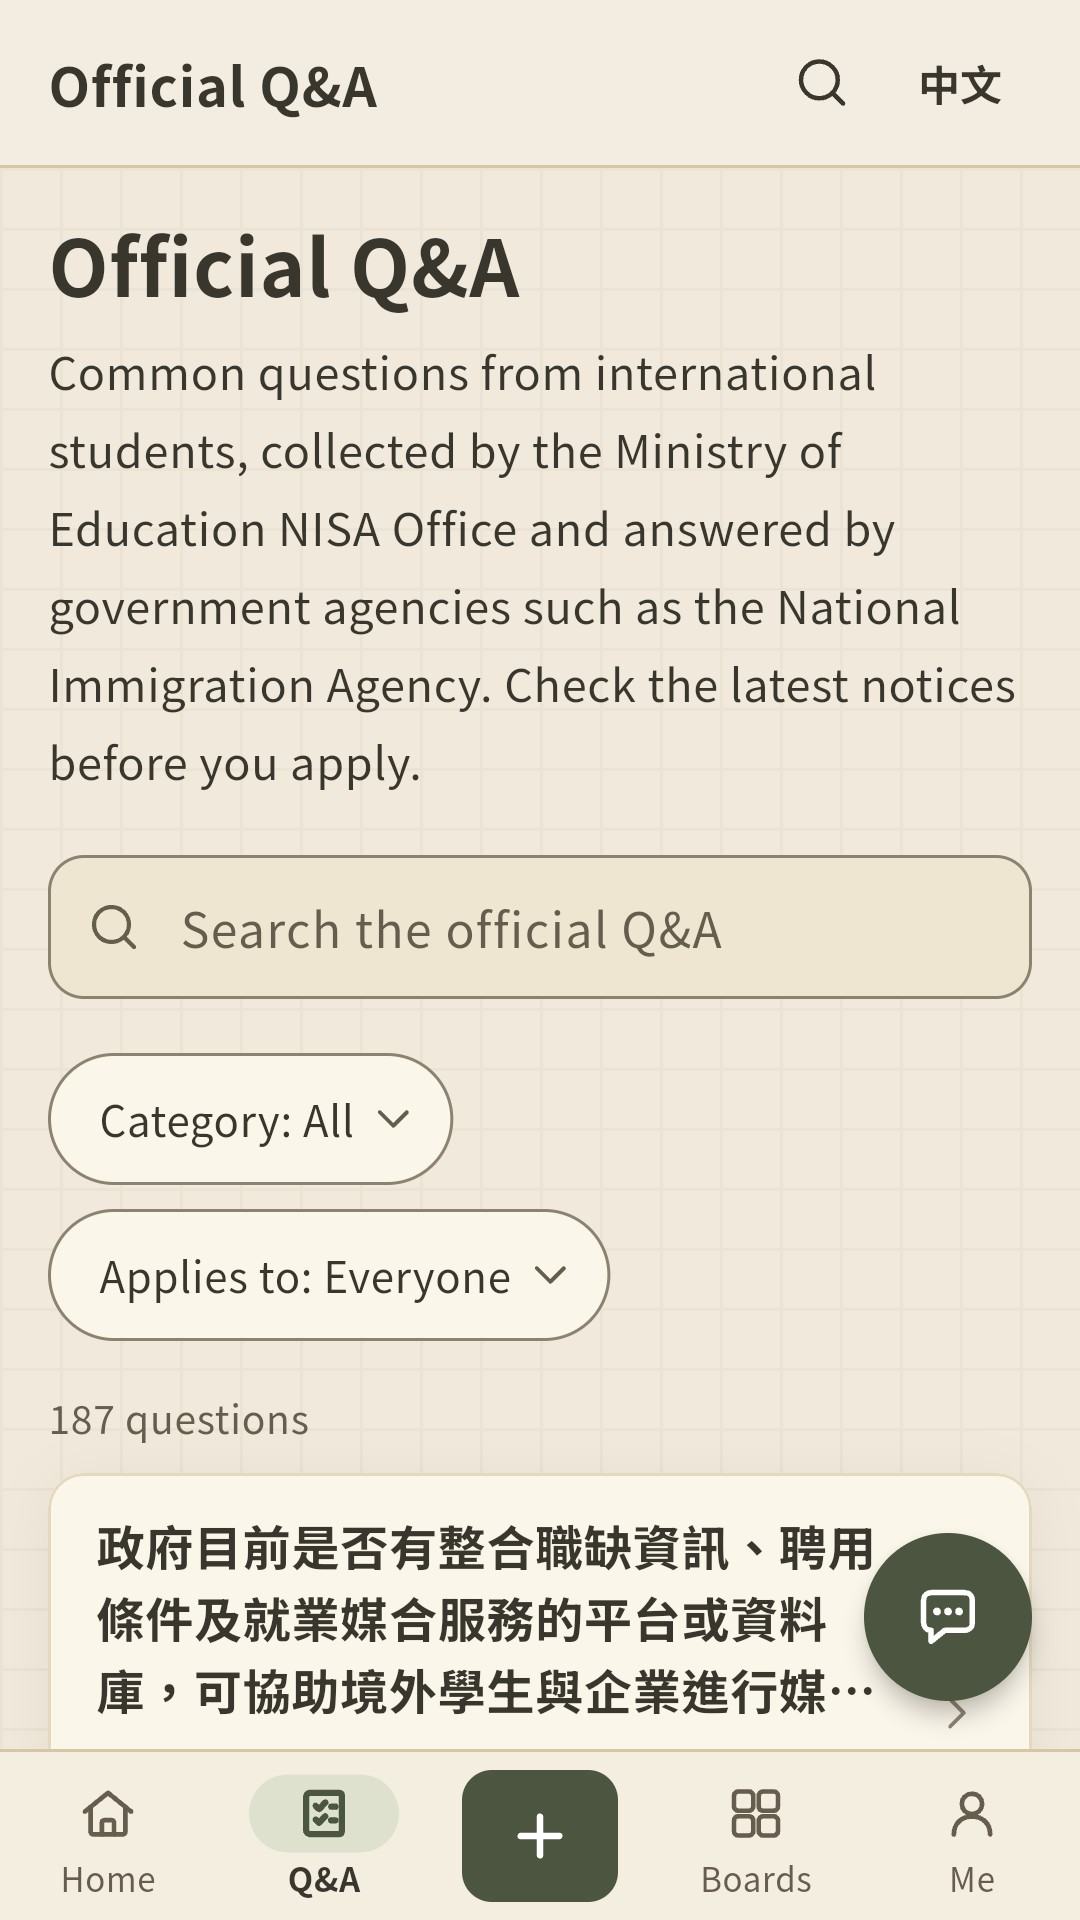
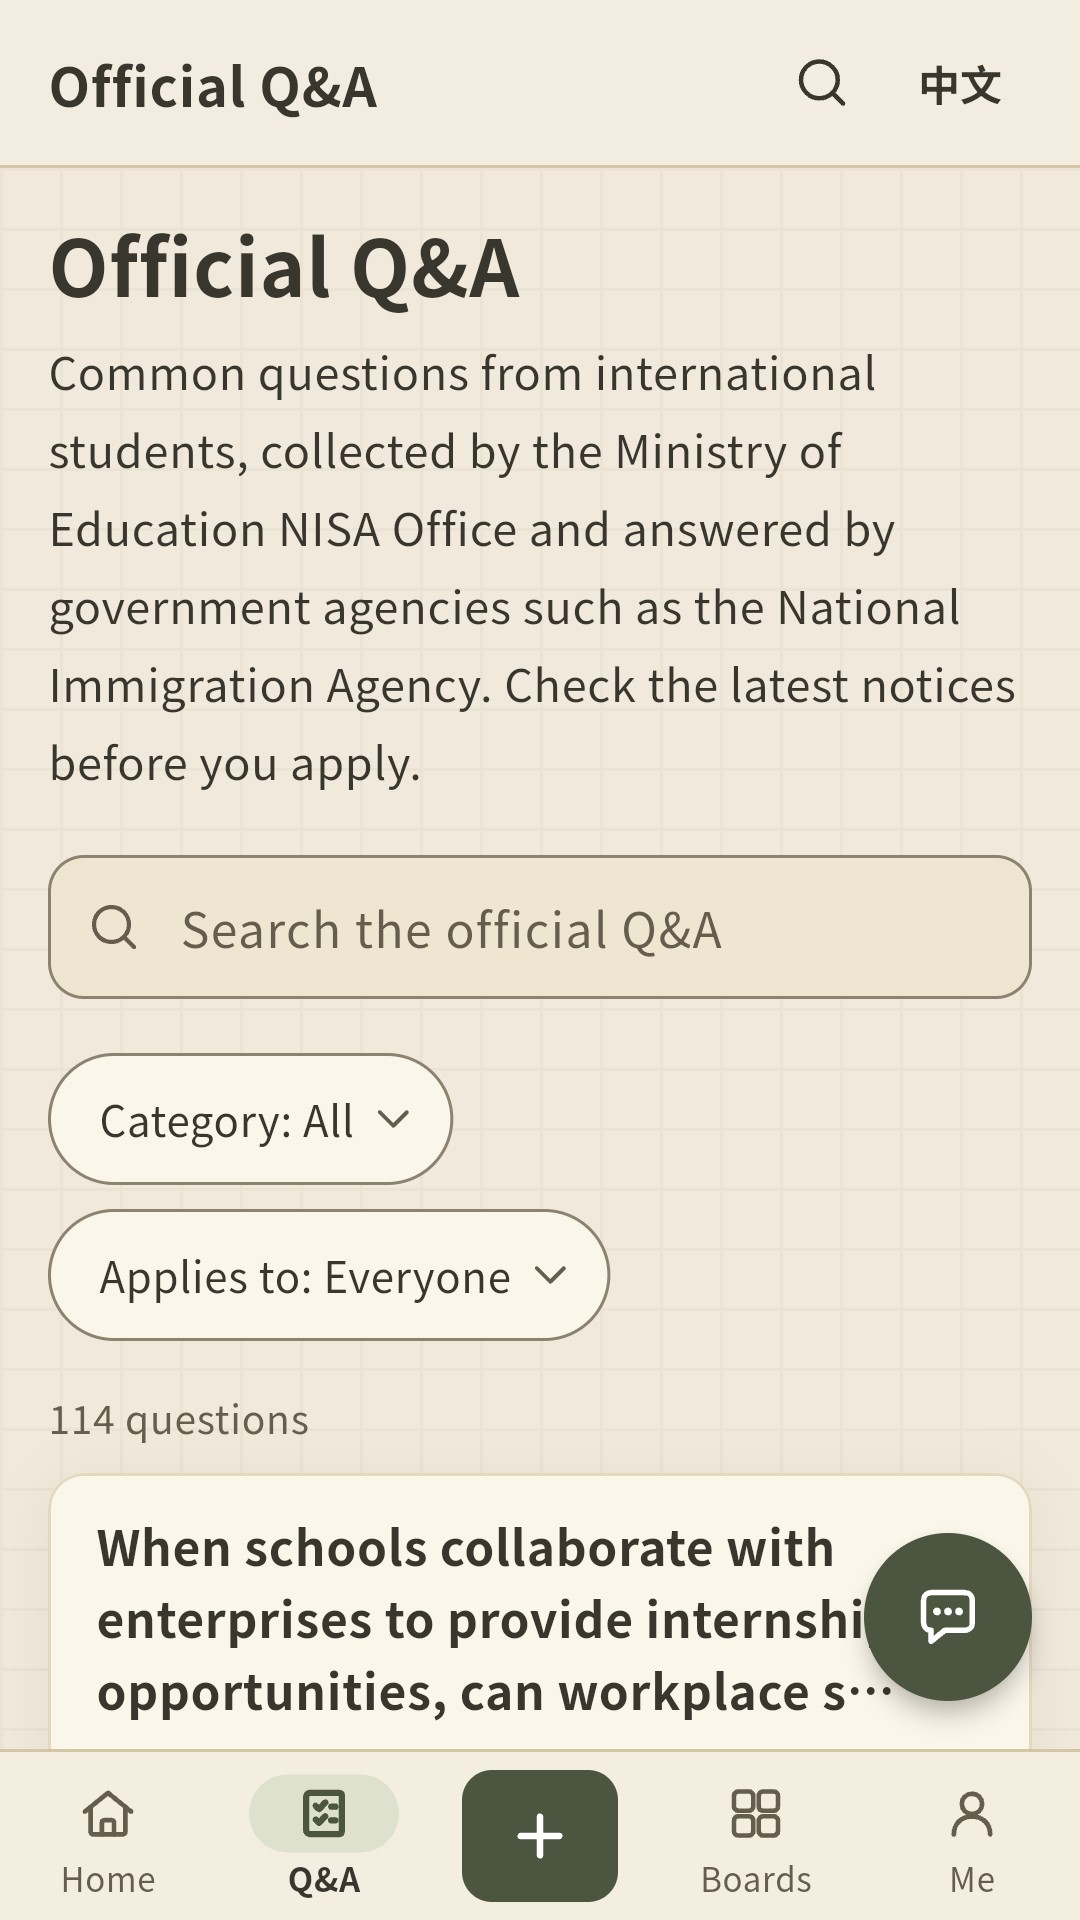
feat: English mode shows only official Q&A with an English version
A question the NISA site answers only in Chinese (73 of 187) appeared in
Chinese in the English app. In English it is now left out everywhere it
could be listed (the Q&A tab, search, related questions under posts,
saved), opening one by link offers to switch to Chinese, and the
assistant attaches no card for it in an English reply. Chinese mode
still lists all 187. English store screenshot re-shot.

Changed region(s): [[0.0917, 0.7812, 0.825, 0.9062], [0.0611, 0.7188, 0.1222, 0.75]]

diff --git a/flutter_app/lib/ui/features/faq_pages.dart b/flutter_app/lib/ui/features/faq_pages.dart
@@ -138,9 +138,10 @@ class _FaqsPageState extends State<FaqsPage> {
     // School-administration questions are never listed: administrative guidance may appear only
     // once checked and published by Feng Chia University itself. The server leaves them out;
     // this also covers an older server that still sends them.
+    // In English, questions without an official English version are left out too.
     final visible = [
       for (final faq in all.items)
-        if (!faq.forSchool) faq,
+        if (vm.faqShown(faq)) faq,
     ];
     // Counts follow the identity filter, so a category chip never leads to 「共 0 則」.
     final forWho = [
@@ -336,7 +337,7 @@ class FaqList extends StatelessWidget {
     // Never shown anywhere (see FaqsPage); the server leaves them out already.
     final shown = [
       for (final faq in items)
-        if (!faq.forSchool) faq,
+        if (vm.faqShown(faq)) faq,
     ];
     if (shown.isEmpty) return const SizedBox.shrink();
     // One card per question, spaced like the post list, so each stands apart.
@@ -435,7 +436,9 @@ class FaqDetailPage extends StatelessWidget {
     load: (vm) => vm.loadFaq(id),
     builder: (context, detail) => detail.summary.forSchool
         ? const _NotShown()
-        : _FaqDetail(detail: detail),
+        : BridgeScope.of(context).faqShown(detail.summary)
+        ? _FaqDetail(detail: detail)
+        : const _ChineseOnly(),
   );
 }
 
@@ -455,6 +458,28 @@ class _NotShown extends StatelessWidget {
             '學校行政相關內容需經逢甲大學官方發布並確認後才會顯示。',
             'School administration content appears only once Feng Chia University has published and checked it.',
           ),
+        ),
+      ],
+    );
+  }
+}
+
+/// A question the NISA site answers only in Chinese, opened in English (an old link, a saved
+/// question): English shows no Chinese text, so it offers to switch to Chinese.
+class _ChineseOnly extends StatelessWidget {
+  const _ChineseOnly();
+  @override
+  Widget build(BuildContext context) {
+    final vm = BridgeScope.of(context);
+    return FlowBody(
+      maxWidth: 760,
+      children: [
+        EmptyNote(
+          key: const Key('faq-chinese-only'),
+          title: 'Available in Chinese only',
+          body: 'The official answer to this question has no English version yet. Switch to Chinese to read it.',
+          action: '切換成中文',
+          onAction: () => vm.setEnglish(false),
         ),
       ],
     );

diff --git a/flutter_app/test/widget_test.dart b/flutter_app/test/widget_test.dart
@@ -318,24 +318,27 @@ void main() {
     expect(find.byKey(const Key('faq-related-posts')), findsNothing);
   });
 
-  testWidgets('English shows a note where the site has no English version', (
+  testWidgets('English shows no question that has only a Chinese answer', (
     tester,
   ) async {
-    final app = await mount(tester, '/faqs/nisa-900', const Size(375, 1600));
-    expect(find.byKey(const Key('faq-no-english')), findsNothing);
+    final app = await mount(tester, '/faqs', const Size(375, 1600));
+    expect(find.byKey(const Key('faq-row-nisa-900')), findsOneWidget);
     app.vm.setEnglish(true);
     await tester.pumpAndSettle();
-    expect(find.byKey(const Key('faq-no-english')), findsOneWidget);
-    expect(find.text('陸生可以加入全民健保嗎？'), findsOneWidget);
+    // nisa-900 has no official English: listed in Chinese mode only.
+    expect(find.byKey(const Key('faq-row-nisa-900')), findsNothing);
+    expect(find.byKey(const Key('faq-row-nisa-1070')), findsOneWidget);
+
+    // Opened by link in English: no Chinese text, an offer to switch instead.
     await tester.pumpWidget(const SizedBox());
-    await mount(
-      tester,
-      '/faqs/nisa-1070',
-      const Size(375, 1600),
-      before: (app) async => app.vm.setEnglish(true),
-    );
-    expect(find.text('How early can I renew my ARC?'), findsOneWidget);
-    expect(find.byKey(const Key('faq-no-english')), findsNothing);
+    final linked = await mount(tester, '/faqs/nisa-900', const Size(375, 1600));
+    linked.vm.setEnglish(true);
+    await tester.pumpAndSettle();
+    expect(find.byKey(const Key('faq-chinese-only')), findsOneWidget);
+    expect(find.byKey(const Key('faq-answer')), findsNothing);
+    await tap(tester, find.text('切換成中文'));
+    expect(linked.vm.english, isFalse);
+    expect(find.byKey(const Key('faq-answer')), findsOneWidget);
   });
 
   testWidgets('Saved questions are listed under Me › Saved', (tester) async {

diff --git a/flutter_app/lib/ui/view_models/bridge_view_model_faqs.dart b/flutter_app/lib/ui/view_models/bridge_view_model_faqs.dart
@@ -3,6 +3,13 @@ part of 'bridge_view_model.dart';
 mixin _BridgeFaqs on _BridgeCore {
   // ---------- official Q&A (MOE NISA) ----------
 
+  /// Whether a question may be listed now: never school administration (only checked guidance
+  /// published by Feng Chia University may cover it), and in English only questions the NISA
+  /// site answers in English; the others show in Chinese mode only, so English never shows a
+  /// Chinese question (2026-11-19).
+  bool faqShown(FaqSummary faq) =>
+      !faq.forSchool && (!english || faq.hasEnglish);
+
   /// Every official question with its categories; the list page filters it on the device.
   Resource<FaqCatalog> faqs = const Resource();
   Future<void> loadFaqs() =>

diff --git a/flutter_app/lib/ui/view_models/bridge_view_model_library.dart b/flutter_app/lib/ui/view_models/bridge_view_model_library.dart
@@ -28,7 +28,7 @@ mixin _BridgeLibrary on _BridgeCore, _BridgeFaqs {
     if (catalog == null) return savedFaqIds;
     return [
       for (final id in savedFaqIds)
-        if (catalog.item(id) case final faq? when !faq.forSchool) id,
+        if (catalog.item(id) case final faq? when faqShown(faq)) id,
     ];
   }
 

diff --git a/backend/app/assistant/tools.py b/backend/app/assistant/tools.py
@@ -191,6 +191,13 @@ def experience_card(experience: ExperienceRecord, locale: Locale) -> ExperienceC
     )
 
 
+def shows_card(faq: FaqRecord, locale: Locale) -> bool:
+    """A question card would be in Chinese in an English reply when the NISA site has no English
+    version; the app lists such questions in Chinese mode only, so no card is shown either
+    (the answer still uses what it says)."""
+    return locale != "en" or faq.has_english
+
+
 def faq_card(faq: FaqRecord, locale: Locale) -> FaqCard:
     return FaqCard(
         faq_id=faq.id,
@@ -224,7 +231,8 @@ def get_official_faq(args: GetFaqArgs, ctx: ToolContext) -> dict[str, Any]:
     faq = ctx.data.get_faq(args.faq_id)
     if faq is None:
         return {"found": False, "faq_id": args.faq_id}
-    ctx.cards[f"faq:{faq.id}"] = faq_card(faq, ctx.locale)
+    if shows_card(faq, ctx.locale):
+        ctx.cards[f"faq:{faq.id}"] = faq_card(faq, ctx.locale)
     return {"found": True, "notice": FAQ_NOTICE, "faq": faq_detail(faq, ctx.locale)}
 
 

diff --git a/backend/tests/test_assistant_review_fixes.py b/backend/tests/test_assistant_review_fixes.py
@@ -62,3 +62,16 @@ def test_at_most_two_listed_question_cards(ctx):
         Related(text="see these", listed=True, faqs=("nisa-934", "nisa-1076", "nisa-1077")), ctx
     )
     assert [k for k in ctx.cards if k.startswith("faq:")] == ["faq:nisa-934", "faq:nisa-1076"]
+
+
+def test_english_replies_show_no_card_for_a_question_with_only_a_chinese_answer(data):
+    """2026-11-19: English mode shows no Chinese; Chinese-only questions appear in Chinese only."""
+    zh_only = next(f for f in data.faqs.values() if not f.has_english)
+    bilingual = next(f for f in data.faqs.values() if f.has_english)
+    en = ToolContext(data=data, locale="en", user=CurrentUser(id="u1"))
+    run(en, "get_official_faq", faq_id=zh_only.id)
+    run(en, "get_official_faq", faq_id=bilingual.id)
+    assert list(en.cards) == [f"faq:{bilingual.id}"]
+    zh = ToolContext(data=data, locale="zh-Hant", user=CurrentUser(id="u1"))
+    run(zh, "get_official_faq", faq_id=zh_only.id)
+    assert list(zh.cards) == [f"faq:{zh_only.id}"]

diff --git a/backend/app/assistant/related.py b/backend/app/assistant/related.py
@@ -10,7 +10,7 @@ shown, and an answer without the line shows no student posts.
 import re
 from dataclasses import dataclass
 
-from app.assistant.tools import ToolContext, experience_card, faq_card
+from app.assistant.tools import ToolContext, experience_card, faq_card, shows_card
 
 MAX_EACH = 2
 _LINE = re.compile(r"^[ \t]*RELATED[ \t]*[:：][^\n]*$", re.IGNORECASE | re.MULTILINE)
@@ -53,7 +53,7 @@ def related_cards(related: Related, ctx: ToolContext) -> None:
     ctx.cards.clear()
     for faq_id in related.faqs[:MAX_EACH]:
         faq = ctx.data.get_faq(faq_id)
-        if faq is not None:
+        if faq is not None and shows_card(faq, ctx.locale):
             ctx.cards[f"faq:{faq.id}"] = faq_card(faq, ctx.locale)
     # A question the answer quotes is relevant even if the model forgot to list it.
     for key, card in named.items():

diff --git a/backend/app/assistant/prefetch.py b/backend/app/assistant/prefetch.py
@@ -22,6 +22,7 @@ from app.assistant.tools import (
     _experience_summary,
     faq_card,
     faq_detail,
+    shows_card,
 )
 
 logger = logging.getLogger(__name__)
@@ -185,4 +186,5 @@ def cite_named_faqs(answer: str, found: Prefetched, ctx: ToolContext) -> None:
     for faq in found.faqs:
         questions = {faq.question.zh, faq.question.en}
         if any(q and q in answer for q in questions):
-            ctx.cards.setdefault(f"faq:{faq.id}", faq_card(faq, ctx.locale))
+            if shows_card(faq, ctx.locale):
+                ctx.cards.setdefault(f"faq:{faq.id}", faq_card(faq, ctx.locale))
